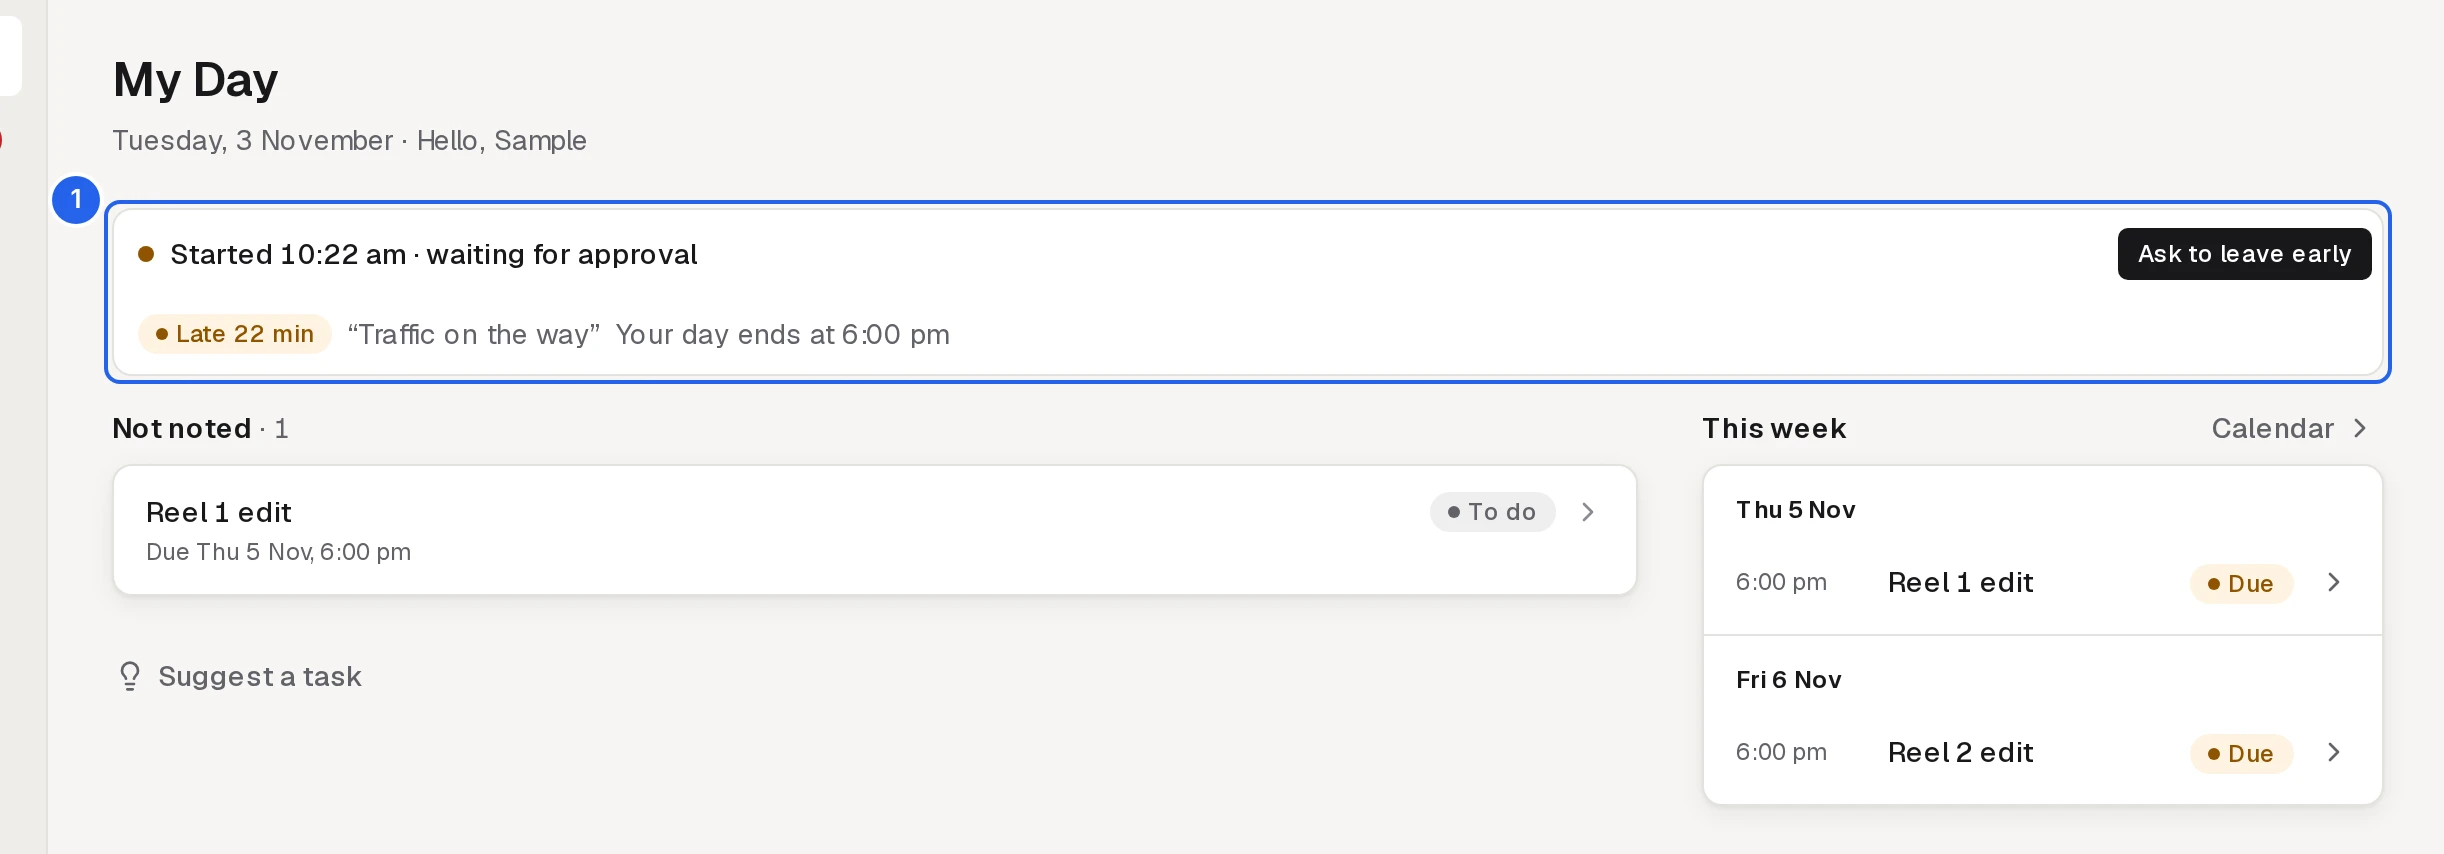
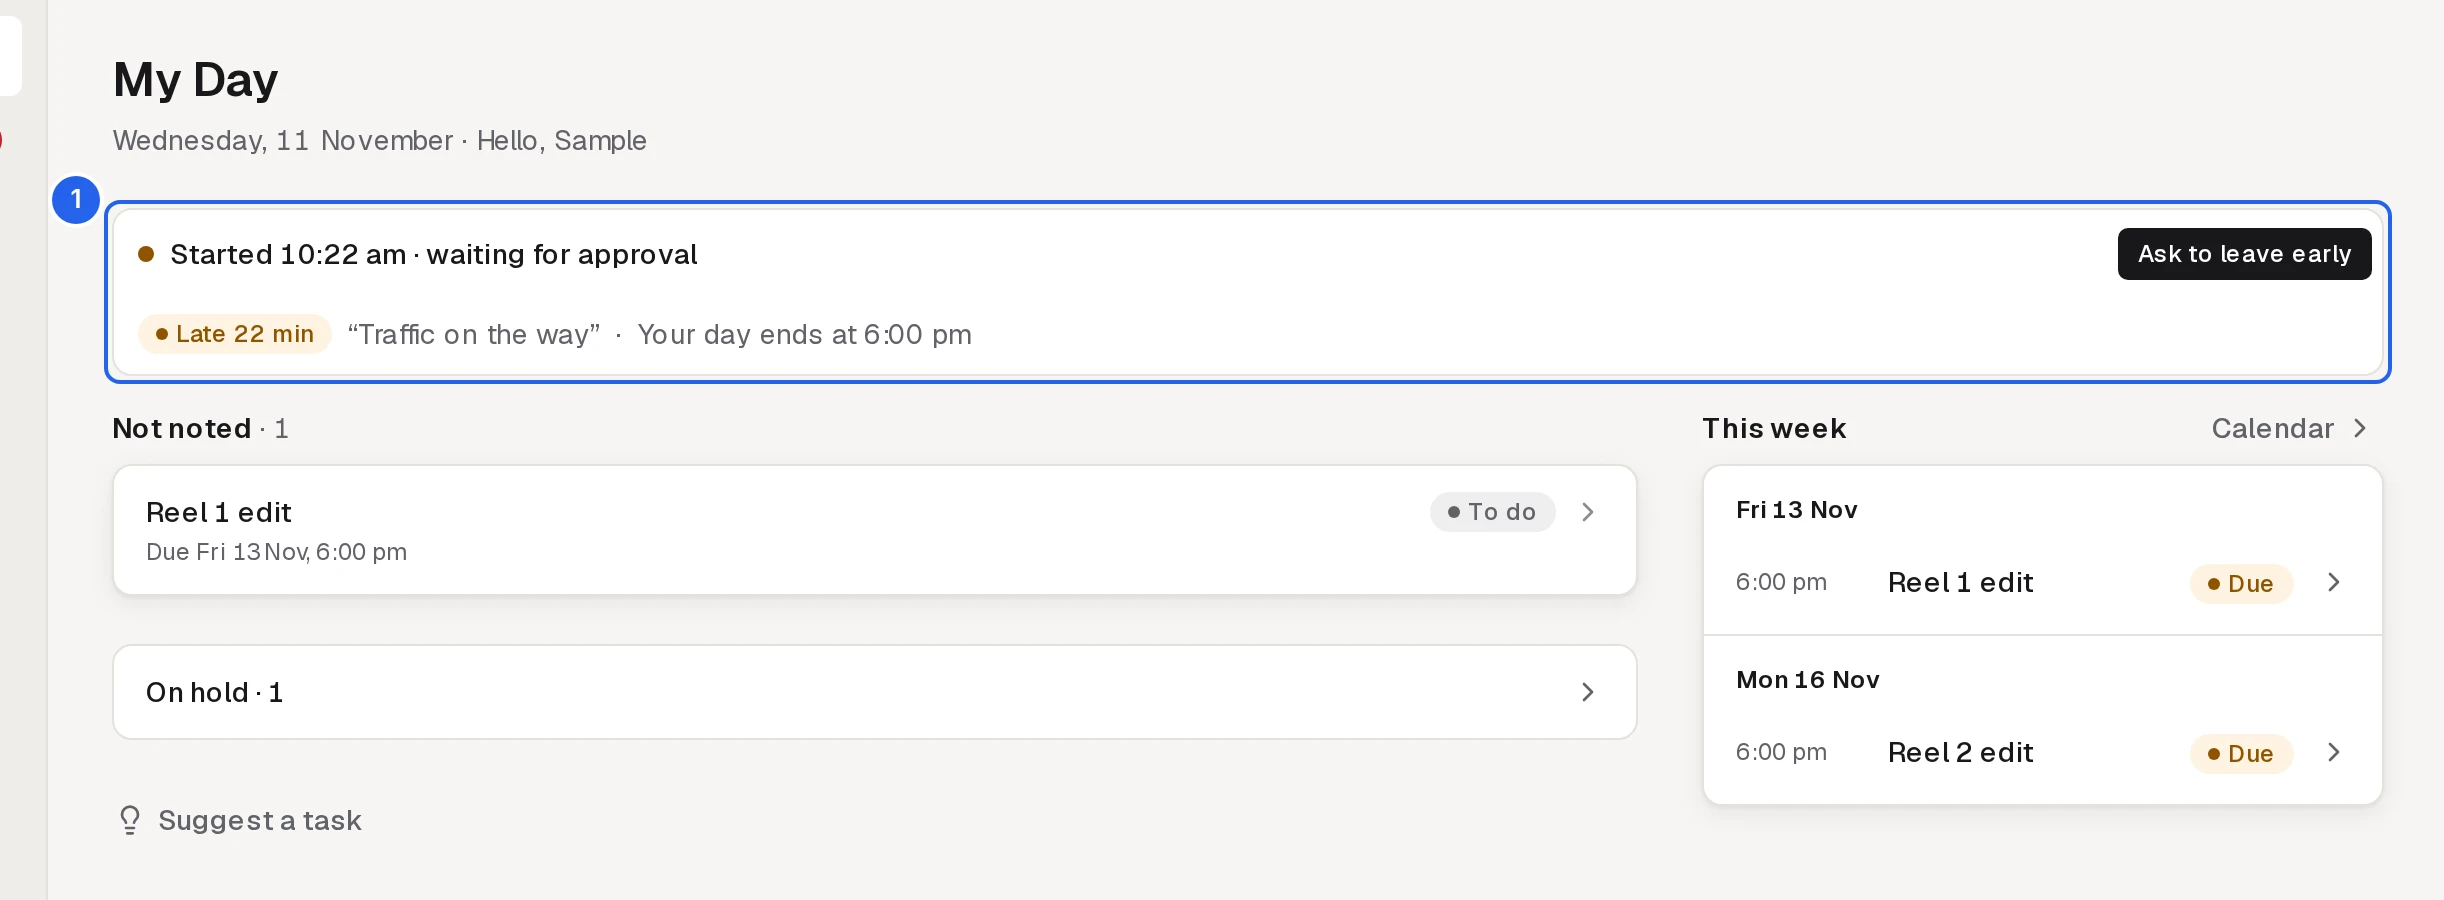
Guide batch 3: re-shoot the three pictures v2 changed
The advisor's batch 3 item 2 (#89 6785108469):
- staff/my-day: the "On hold · 1" line under the groups;
- admin/client-page and owner/client-states: Festive campaign reads
  On hold, never Open.
Made with GUIDE_ONLY on the local seeded stack in the daytime window;
each picture checked by eye; neutral demo names only.

Claude-Session: https://claude.ai/code/session_01MQbhpujJQ6yq4Hm5TAkb1D

diff --git a/src/modules/guide/domain/shots.generated.ts b/src/modules/guide/domain/shots.generated.ts
@@ -26,7 +26,7 @@ export const GUIDE_SHOTS: Readonly<
   "staff/my-day": {
     src: "/guide/staff/my-day.webp",
     width: 1222,
-    height: 427,
+    height: 450,
     alt: "My Day with today's attendance strip highlighted at the top.",
   },
   "staff/late-chip": {
